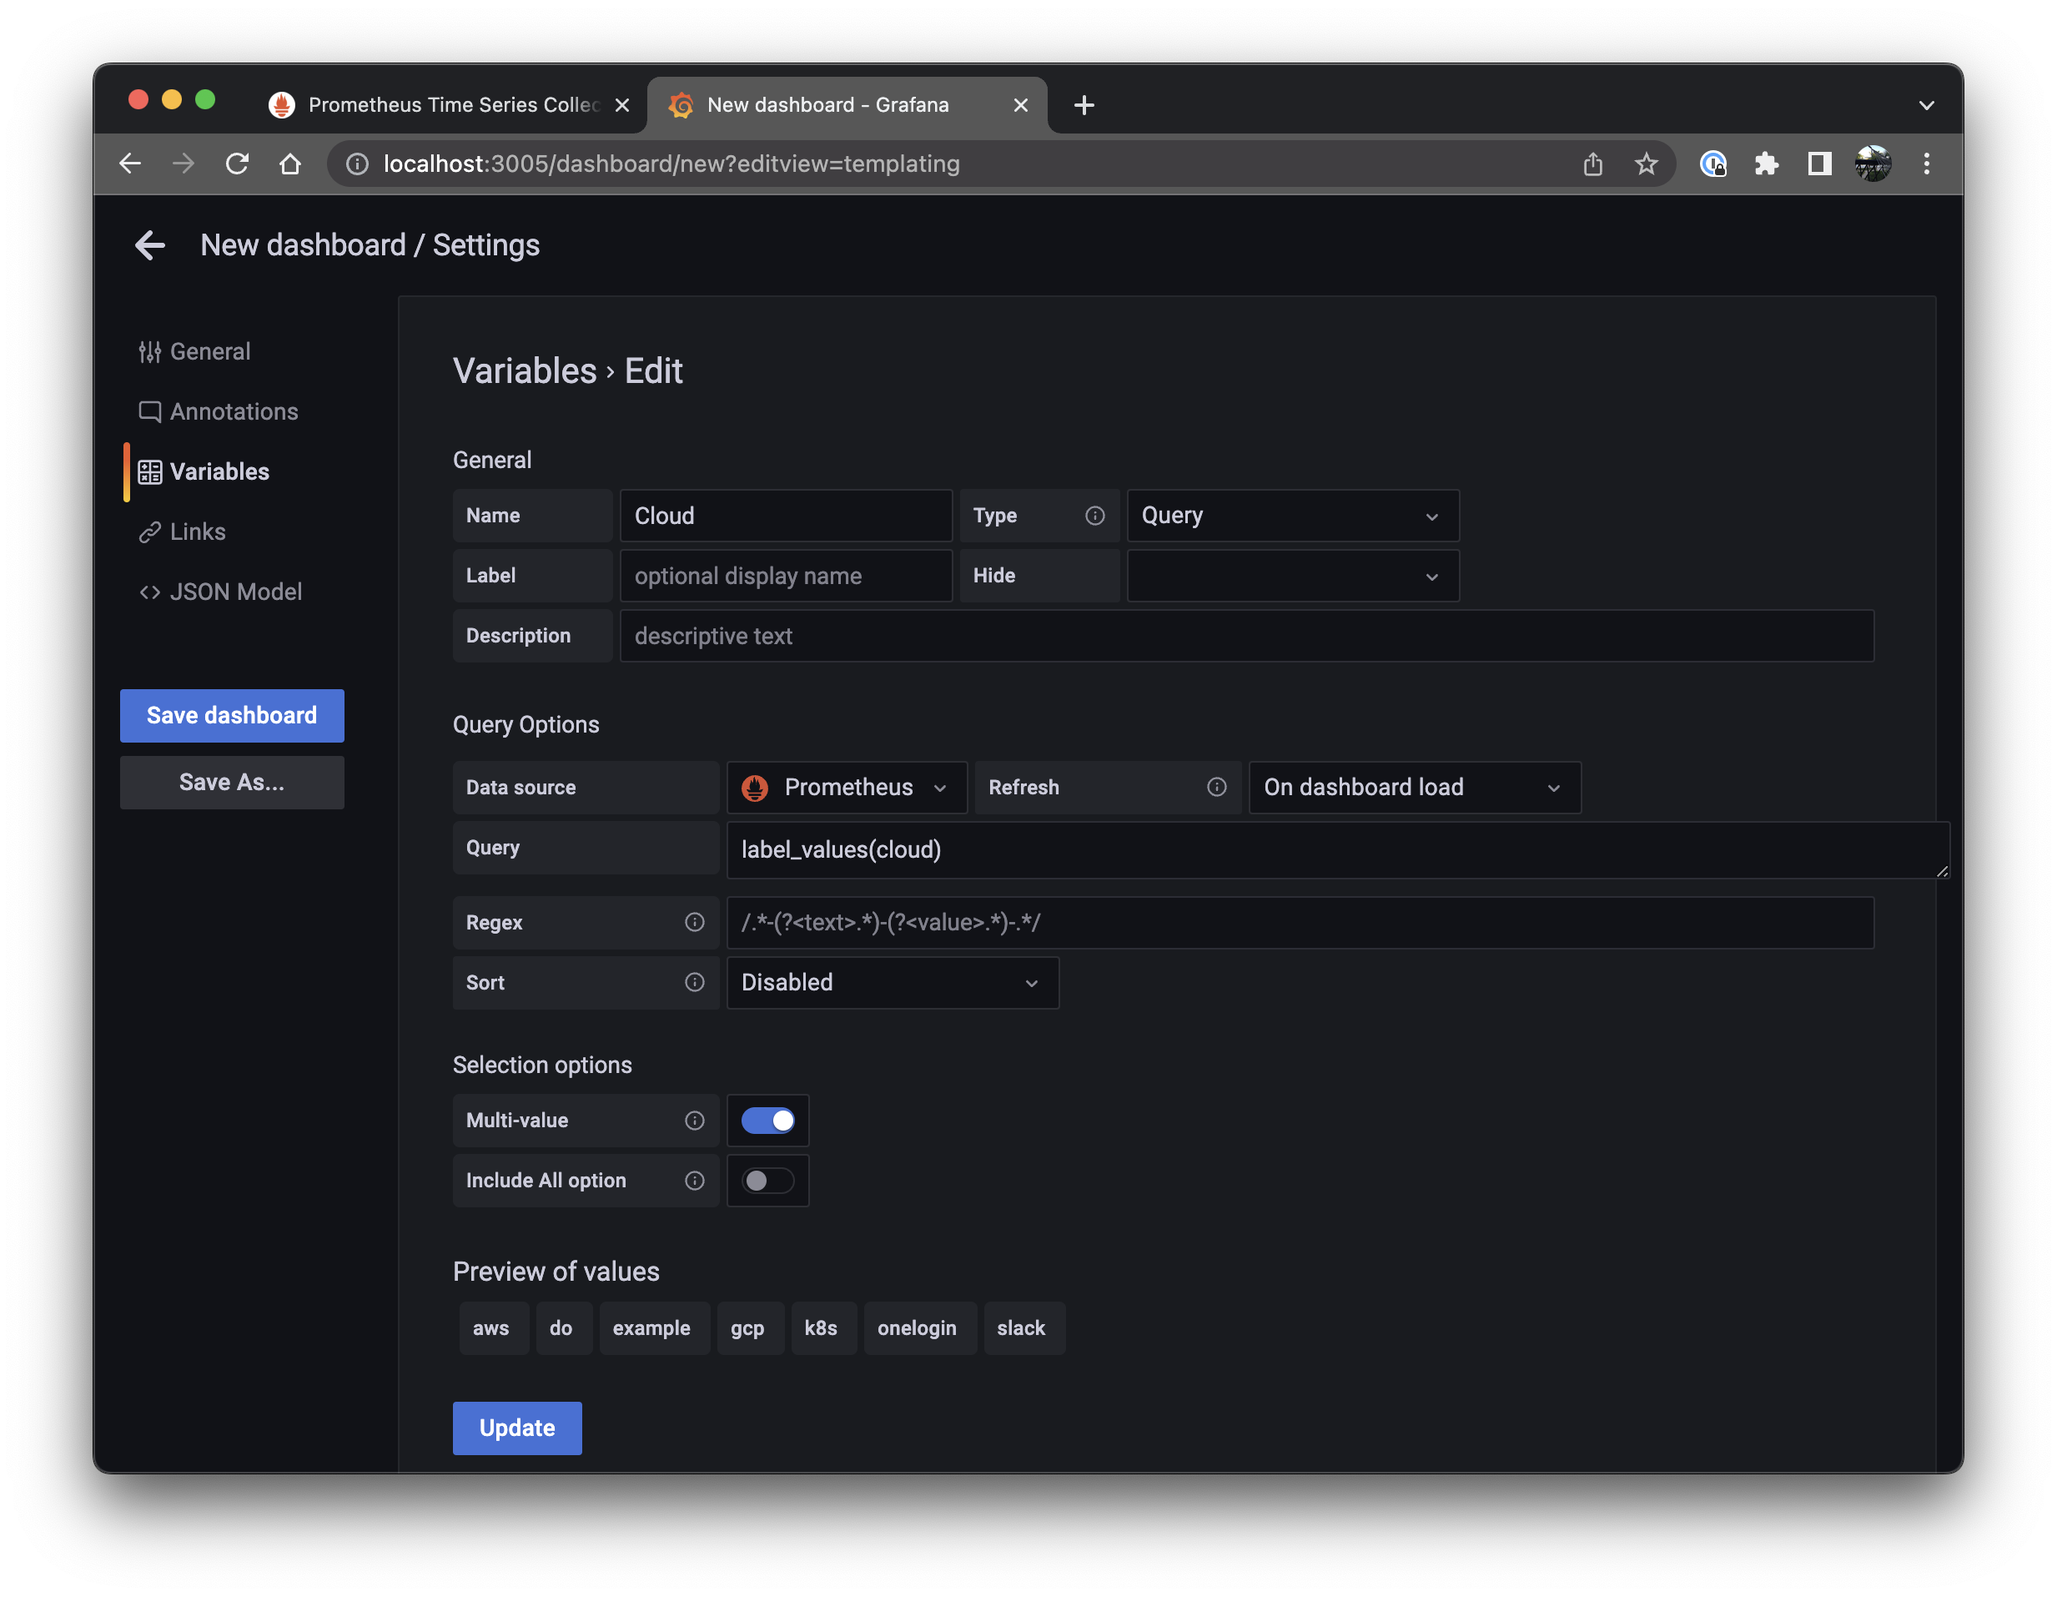
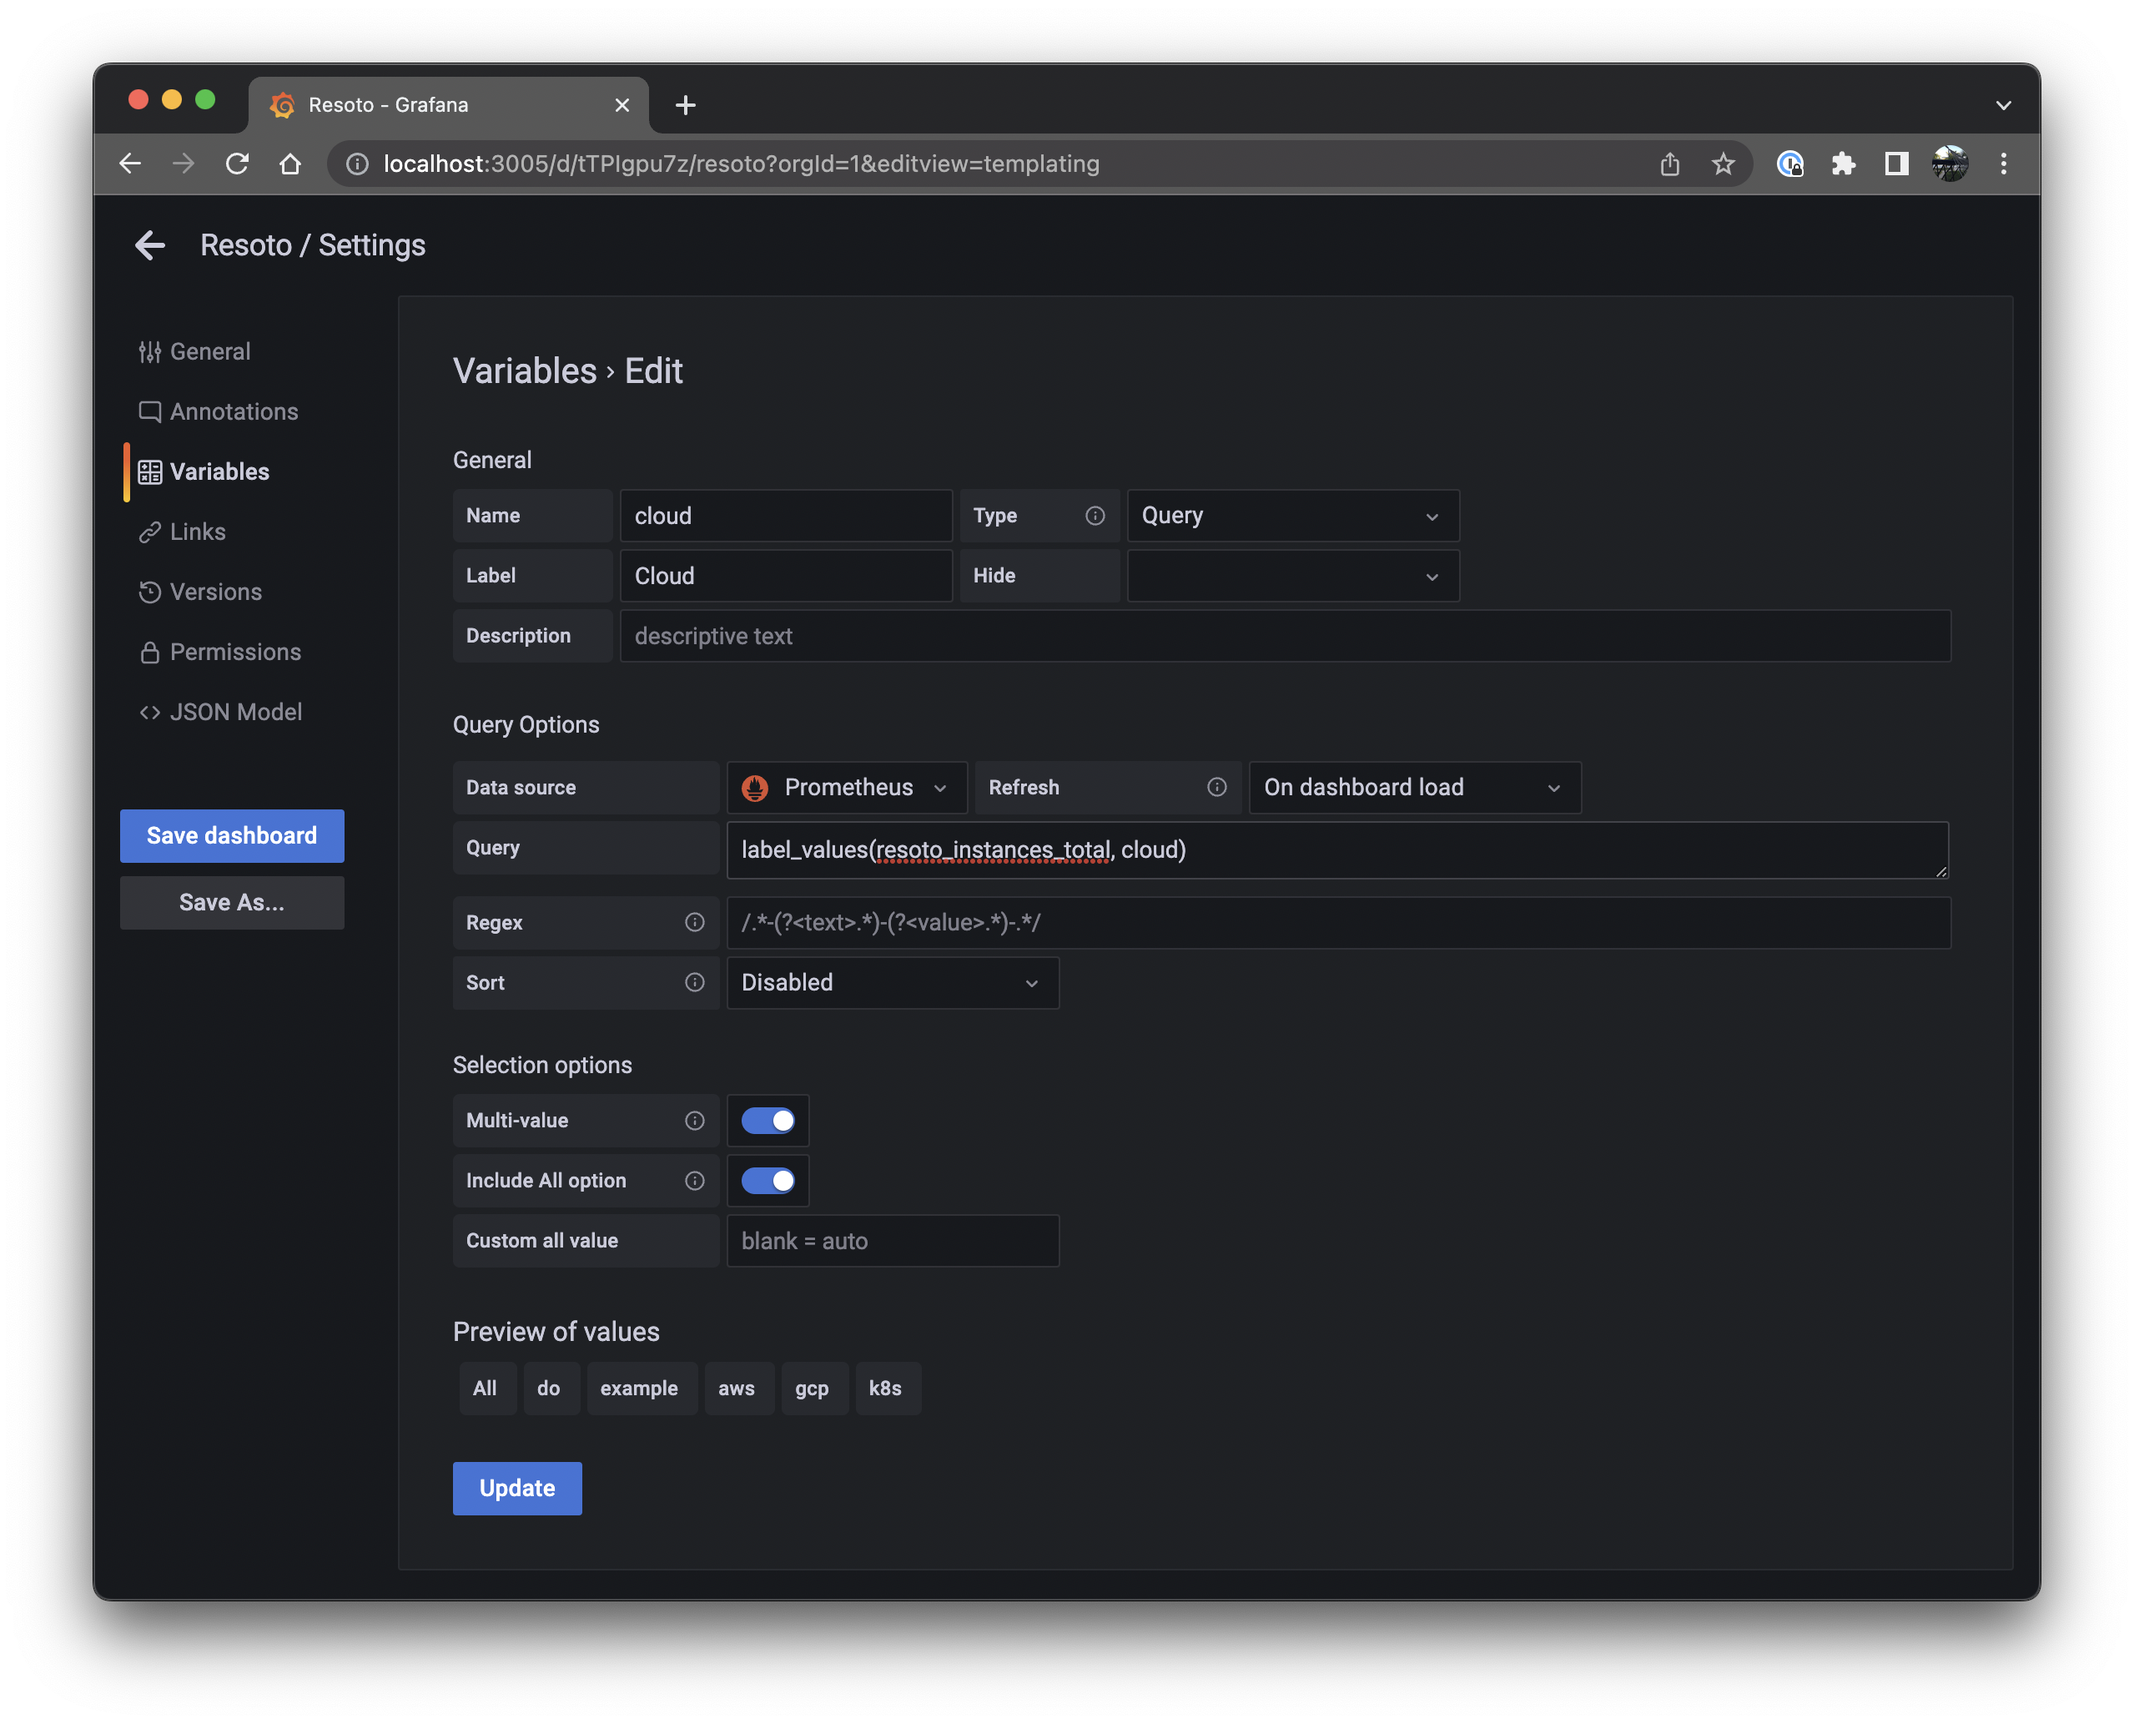
docs(docs): more stuff

diff --git a/blog/2022/05-16-resoto-metrics/index.md b/blog/2022/05-16-resoto-metrics/index.md
@@ -13,19 +13,19 @@ If the answer is "No, not exactly", then my next question would be: Why not? Com
 
 With Resoto we give you a picture of the current state of your cloud infrastructure. You can search that state and have Resoto automatically react to state changes. Resoto also lets you [aggregate this data](https://resoto.com/blog/2022/03/03/aggregating-search-data) as my Co-Founder Matthias explained in [his March Blog post](https://resoto.com/blog/2022/03/03/aggregating-search-data).
 
-Building on that knowledge, we can take the aggregated data and ingest it into a time series database like Prometheus. We can then use this information to build diagrams to for example show the evolution of cloud resources like compute instances and storage over time. We can also [alert on trends](https://prometheus.io/docs/alerting/latest/alertmanager/), like if we are going to run out of quota or about to hit a spend limit.
+Building on that knowledge, we can take the aggregated data and ingest it into a time series database like Prometheus. We can then use this information to build diagrams to show the evolution of cloud resources like compute instances and storage over time. We can also [alert on trends](https://prometheus.io/docs/alerting/latest/alertmanager/), like if we are going to run out of quota or about to hit a spend limit.
 
 ![Metrics Overview](img/metrics_overview.png)
 
-Resoto comes with a handy dandy metrics component called [Resoto Metrics](https://resoto.com/docs/concepts/components/metrics). It takes aggregation results and exports them to [Prometheus](https://prometheus.io/). In this post we will show you how to use Resoto's metrics component to build a simple metrics dashboard using Resoto Metrics, Prometheus and Grafana.
+Resoto comes with a handy dandy metrics component called [Resoto Metrics](https://resoto.com/docs/concepts/components/metrics). It takes aggregation results and exports them to [Prometheus](https://prometheus.io/). In this post we will show you how to build a simple metrics dashboard using [Resoto Metrics](https://resoto.com/docs/concepts/components/metrics), [Prometheus](https://prometheus.io/) and [Grafana](https://grafana.com/).
 
 <!--truncate-->
 
 ## Prefix
 
-If you already know what graph databases, time series databases, Prometheus and Grafana are you can [skip ahead to the next chapter](#getting-started). For anyone not deep into the cloud native ecosystem let's get some concepts and terminology out of the way.
+If you already know what graph and time series databases, metrics, Prometheus and Grafana are you can [skip ahead to the next chapter](#getting-started). For anyone not deep into the cloud native ecosystem let's get some concepts and terminology out of the way.
 
-Resoto creates an inventory of your cloud infrastructure by taking all the meta data of your cloud resources and storing them inside of a graph database. This is what we call the `collect` [step](https://resoto.com/docs/concepts/automation/workflow). Every resource (like a compute instance, storage volume, etc.) is represented by a node in the graph. Nodes are connected to each other by edges. Edges represent the relationship between two nodes.
+Resoto creates an inventory of your cloud infrastructure by taking all the meta data of your cloud resources and storing them inside of a graph database. This is what we call the `collect` [step](https://resoto.com/docs/concepts/automation/workflow). Every resource (like a compute instance, storage volume, etc.) is represented by a node in the graph. Nodes are connected to each other by edges. Edges represent the relationship between two nodes (please excuse my MS Paint skills).
 
 ![Graph visualization](img/graph_visualization.png)
 
@@ -51,7 +51,7 @@ In Resoto a node is essentially an indexed JSON document that contains all the m
 }
 ```
 
-Resoto then allows you to [search that meta data](http://localhost:3000/blog/2022/02/04/resoto-search-101). An example search could be
+Among other things Resoto then allows you to [search that meta data](http://localhost:3000/blog/2022/02/04/resoto-search-101). An example search could be
 
 ```
 > search is(aws_ec2_instance) and instance_cores > 4
@@ -66,10 +66,12 @@ Resoto then allows you to [search that meta data](http://localhost:3000/blog/202
 ...
 ```
 
-This would return a list of all the EC2 instances with more than 4 cores. That's neat if I want to do something with each individual instance, but sometimes I'm not interested in the details of individual resources. Sometimes I just want to know the sum of how many resources are running in my infrastructure. Or, how many resources with a certain criteria are running. Like the distribution of compute instances by instance type (e.g. how many m5.large, m5.2xlarge, etc.) or the current cost of compute plus storage grouped by team. This is where the before mentioned [aggregation](https://resoto.com/blog/2022/03/03/aggregating-search-data) comes into play. It does just that. [Aggregating resources and grouping the result](https://resoto.com/blog/2022/03/03/aggregating-search-data) by a criteria.
+This would return a list of all the EC2 instances with more than 4 cores. That's neat if I want to do something with each individual instance, but sometimes I'm not interested in the details of individual resources. Sometimes I just want to know the sum of how many resources there are. Or, how many resources of a certain kind are running. Like the distribution of compute instances by instance type (e.g. how many m5.large, m5.2xlarge, etc.) or the current cost of compute plus storage grouped by team.
+
+This is where the before mentioned [aggregation](https://resoto.com/blog/2022/03/03/aggregating-search-data) comes into play. It does just that. [Aggregating resources and grouping the result](https://resoto.com/blog/2022/03/03/aggregating-search-data).
 
 ```
-> search aggregate(/ancestors.account.reported.name as account: sum(1) as instances_total): is(aws_ec2_instance)
+> search aggregate(/ancestors.account.reported.name as account: sum(1) as instances_total): is(aws_ec2_instance) and instance_status = running
 
 group:
   account: eng-production
@@ -82,21 +84,23 @@ This would return a list of all the EC2 instances with more than 4 cores. That's
 ...
 ```
 
-Now this is also useful but what would be even neater was if I could compare the current value to the one from an hour ago, a day ago, a month ago, a year ago, etc. This is where time series come into play. A time series database like [Prometheus](https://prometheus.io/) does not store the details of an individual resource but instead stores the aggregated data over time. It then allows us to query that data and create charts to visualize the result. Prometheus has some very basic graphing capabilities but if we want to build a dashboard we want to use a more advanced tool like [Grafana](https://grafana.com/). It can visualize data from a variety of different sources and it can also be used to create dashboards.
+Now this is also useful but what would be even neater was if I could compare the current value to the one from an hour ago, a day ago, a month ago, a year ago, etc. This is where time series come into play. A time series database like [Prometheus](https://prometheus.io/) does not store the details of an individual resource but instead stores the aggregated data over time. It then allows us to query that data and create charts to visualize the result. In the aggregated search above each of the results is what Prometheus calls a sample. A sample is a single value at a point in time in a time series. The `account` in each group is what's called a [Label](https://prometheus.io/docs/concepts/data_model/#metric-names-and-labels) in Prometheus. Labels are `key: value` pairs that allow us to group samples.
+
+Prometheus has some basic graphing capabilities but to build a dashboard we want to use a better suited tool like [Grafana](https://grafana.com/). It can visualize data from a variety of different sources in a variety of different chart types, like this stacked line chart.
 
 ![Instance cost over time](img/grafana_instances_total.png)
 
-So here's the plan. First we are going to [configure Prometheus to fetch data from Resoto Metrics](#getting-started). Then we will learn how to [query that data inside Prometheus](#querying-a-metric). Then we learn [where Resoto has those metrics configured](#how-metrics-are-made) and how to define our own custom metrics. Finally we will use Grafana to [create a simple dashboard and visualize the data](#i-was-promised-a-metrics-dashboard).
+So here's the plan. First we are going to [configure Prometheus to fetch data from Resoto Metrics](#getting-started). Then we will learn how to [query that data inside Prometheus](#querying-a-metric). Then we learn where Resoto has those metrics configured and [how to define our own custom metrics](#how-metrics-are-made). Finally we will use Grafana to [create a simple dashboard and visualize the data](#i-was-promised-a-metrics-dashboard).
 
 ## Getting Started
 
 If you are new to Resoto, [start the Resoto stack](https://resoto.com/docs/getting-started/installing-with-docker) and [configure it to collect some of your cloud accounts](https://resoto.com/docs/getting-started/configuring-resoto#configuring-cloud-providers).
 
-To checkout the data Resoto Metrics generates open [`https://localhost:9955/metrics`](https://localhost:9955/metrics) in your browser (replacing `localhost` with the IP address or hostname of the machine where `resotometrics` is running). This should show an output similar to this:
+To check out the data Resoto Metrics generates open [`https://localhost:9955/metrics`](https://localhost:9955/metrics) in your browser (replacing `localhost` with the IP address or hostname of the machine where `resotometrics` is running). You should see an output similar to this:
 
 ![List of metrics](img/resotometrics_browser.png)
 
-That is the raw metrics data Prometheus will ingest. If you are using our Docker stack you do not have to do anything, Prometheus is already pre-configured. If you are using your own Prometheus installation, configure it to scrape this metrics endpoint. The config will look something like this:
+That is the raw metrics data Prometheus will ingest. If you are using our Docker stack you do not have to do anything, Prometheus is already pre-configured. If you are using your own Prometheus installation, [configure it to scrape](https://prometheus.io/docs/prometheus/latest/configuration/configuration/#scrape_config) this metrics endpoint. The config will look something like this:
 
 ```yml title="prometheus.yml"
 scrape_configs:
@@ -263,11 +267,14 @@ $ docker run -d -p 3000:3000 -v grafana-data:/var/lib/grafana -v grafana-etc:/et
 
 ![Add Variable](img/grafana_add_variable.png)
 
-9. As Name choose `Cloud`, as Query enter `label_values(cloud)` and select `Multi-value`. Make sure that the `Preview of values` shows the available clouds and click `Update`.
+9. As Name choose `cloud`, as Label `Cloud`, as Query enter `label_values(resoto_instances_total, cloud)` and select `Multi-value` and `Include All option`. Make sure that the `Preview of values` shows the available clouds and click `Update`.
 
 ![Configure Variable](img/grafana_configure_variable.png)
 
-10. Repeat Step 9 for "Account/account" and "Region/region".
+10. Repeat Step 9 for
+
+- Name `account`, Label `Account`, Query `label_values(resoto_instances_total, account)` and
+- Name `region`, Label `Region`, Query `label_values(resoto_instances_total, region)`.
 
 11. Hit `ESC` and on the top of the page click on `Add a new panel`.
 

diff --git a/docs/concepts/security.md b/docs/concepts/security.md
@@ -63,6 +63,8 @@ For advanced users who would like to communicate with Resoto APIs here are some 
 
 ### Retrieving and Validating the CA Certificate
 
+The Resoto CA certificate can be retrieved at [https://localhost:8900/ca/cert](https://localhost:8900/ca/cert) (replace `localhost` with the hostname or IP where `resotocore` is running).
+
 In a Python 3 REPL with [`resotolib`](components/library.md) installed execute the following.
 
 ```python
